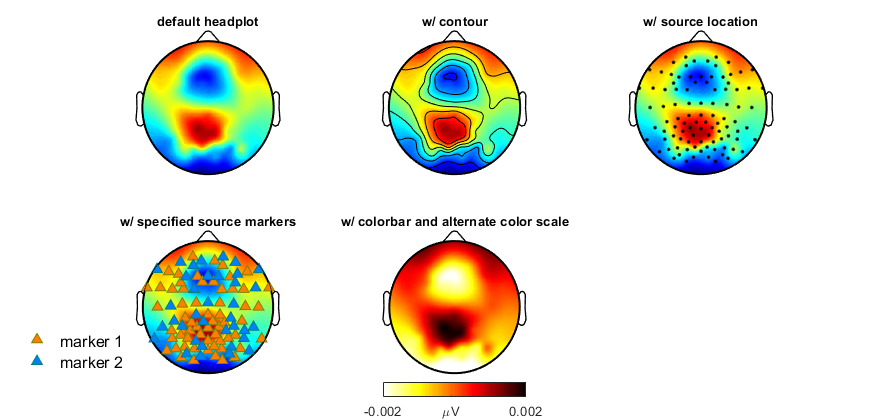
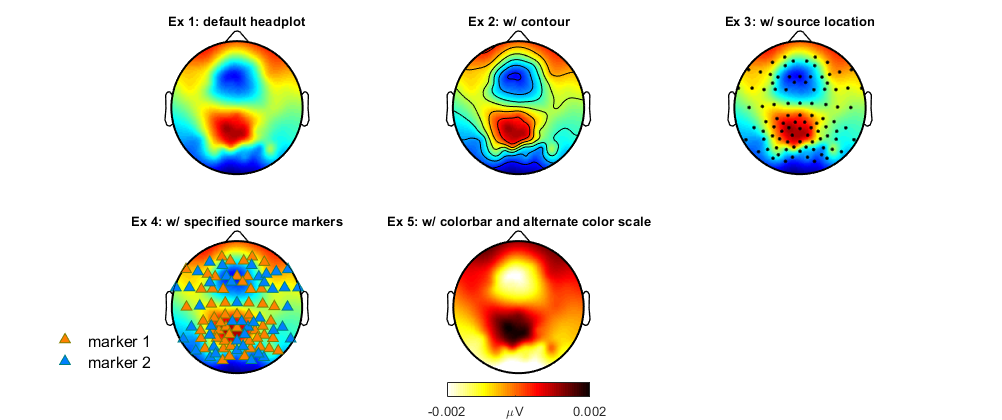
updated demo figures

diff --git a/demo.m b/demo.m
@@ -22,24 +22,24 @@ plotHandle6 = subplot(2,3,6);
 headPlot = HeadPlot(locationFilePath);
 headPlot.setMap();
 
-% 1. Draw the default headplot in the first plot.
+% Ex 1. Draw the default headplot in the first plot.
 headPlot.setPlotHandle(plotHandle1); % Set plot handle and plot axes
 headPlot.draw(A); % Draw headplot.
-title('default headplot')
+title('Ex 1: default headplot')
 
-% 2. Head plot with contours.
+% Ex 2. Head plot with contours.
 headPlot.setPlotHandle(plotHandle2); % Set plot handle and plot axes
 headPlot.draw(A);
 headPlot.drawHeadContour();
-title('w/ contour')
+title('Ex 2: w/ contour')
 
-% 3. Head plot with value of source points.
+% Ex 3. Head plot with value of source points.
 headPlot.setPlotHandle(plotHandle3); % Set plot handle and plot axes
 headPlot.draw(A);
 headPlot.drawSourcePoints();
-title('w/ source location')
+title('Ex 3: w/ source location')
 
-% 4. Head plot with specified values on selective source points.
+% Ex 4. Head plot with specified values on selective source points.
 headPlot.setPlotHandle(plotHandle4); % Set plot handle and plot axes
 headPlot.draw(A);
 
@@ -49,9 +49,9 @@ markerHandle1 = headPlot.drawOnElectrode(sourceIndex, symbolStr, [.5 .5 0],[1 .5
 markerHandle2 = headPlot.drawOnElectrode(~sourceIndex, symbolStr, [0 .5 .5], [0 .5 1]); % plot on siginficnt points
 handles = [markerHandle1 markerHandle2];
 headPlot.drawMarkerLegend(handles, {'marker 1', 'marker 2'} ,'southwestoutside');
-title('w/ specified source markers')
+title('Ex 4: w/ specified source markers')
 
-% 5. Head plot with specified colormap and axis.
+% Ex5. Head plot with specified colormap and axis.
 headPlot.setPlotHandle(plotHandle5); % Set plot handle and plot axes
 headPlot.draw(A);
 
@@ -65,6 +65,6 @@ cAxisTickLabel = {num2str(minVal, '%0.3f'), '\muV', num2str(maxVal,'%0.3f')};
 headPlot.setColorAxis(colorAxisRange, colorMapVal); % Set color scale.
 headPlot.drawColorBar(cAxis, cAxisTickLabel, 'southoutside');  % Draw color bar.
 
-title('w/ colorbar and alternate color scale')
+title('Ex 5: w/ colorbar and alternate color scale')
 
 print('output/demo','-dpng','-r0');
